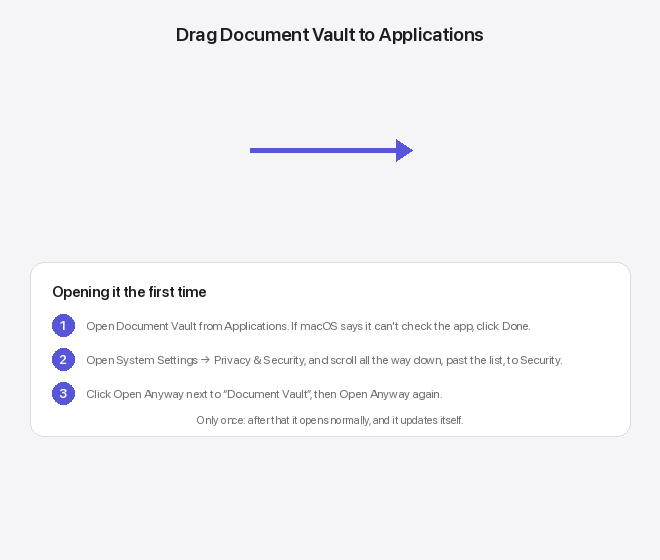
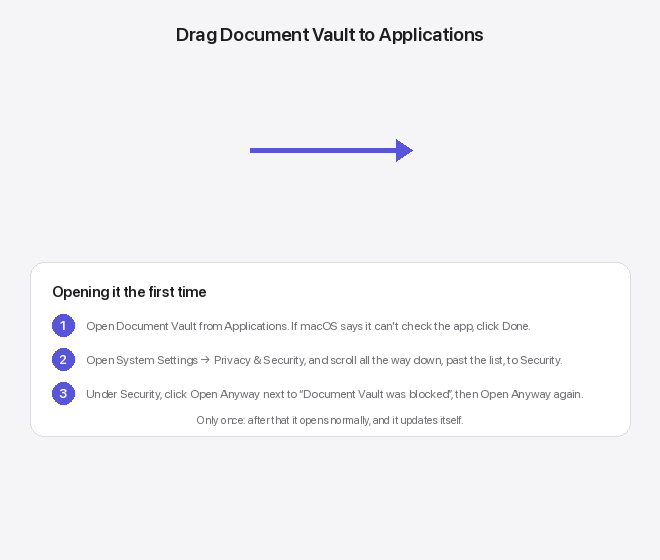
First-open step 3 names the row macOS shows: 'Document Vault was blocked'

Changed region(s): [[0.1515, 0.6982, 0.8788, 0.7286]]

diff --git a/packaging/macos/make_dmg_background.py b/packaging/macos/make_dmg_background.py
@@ -36,7 +36,7 @@ def draw(scale: int) -> Image.Image:
     steps = [
         "Open Document Vault from Applications. If macOS says it can't check the app, click Done.",
         "Open System Settings → Privacy & Security, and scroll all the way down, past the list, to Security.",
-        "Click Open Anyway next to “Document Vault”, then Open Anyway again.",
+        "Under Security, click Open Anyway next to “Document Vault was blocked”, then Open Anyway again.",
     ]
     for i, step in enumerate(steps):
         top = s(314 + i * 34)
